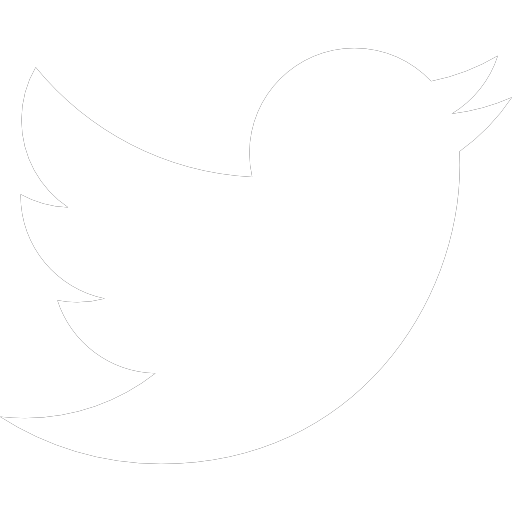
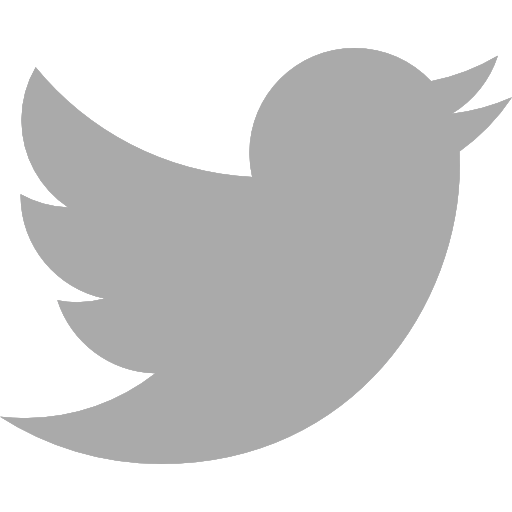
Final commit

diff --git a/main_page/stylesheet.css b/main_page/stylesheet.css
@@ -59,7 +59,7 @@ nav ul {
     align-items: center;
     list-style: none;
     width: 100%;
-    height: 50px;
+    height: fit-content;
 }
 
 nav ul li {
@@ -163,7 +163,7 @@ footer ul li div img{
 
 footer ul li div a {
     text-decoration: none;
-    color: white;  
+    color: rgb(170, 170, 170);  
     font-size: 14px;
 }
 
@@ -172,9 +172,57 @@ footer ul li div a {
     display: flex;
     flex-wrap: wrap;
     width: 40%;
-    color: white;
+    color: rgb(170, 170, 170);
     font-size: 10px;
     text-align: center;
 
+}
+
+@media (min-width:800px){
+    #head-img{
+        height: 300px;
+    }
+    header{
+        height: 250px;
+    }
+    header h1{
+        font-size: 70px;
+    }
+    nav ul li{
+        font-size: 30px;
+        line-height: 90px;
+    }
+
+    section{
+        height: 250px;
+    }
+    section h2{
+        font-size: 60px;
+    }
+
+    article {
+        padding: 60px 0 200px 0;
+    }
+    article p{
+        font-size: 40px;
+        width: 70%;
+    }
+
+    footer {
+        padding: 40px 0 0 0;
+    }
+
+    footer ul li div a {
+        font-size: 45px;
+    }
+
+    footer ul li div img{
+        height: 45px;
+    }
+
+    #footer_info{
+        padding-top: 200px;
+        font-size: 20px;
+    }
 }
 
